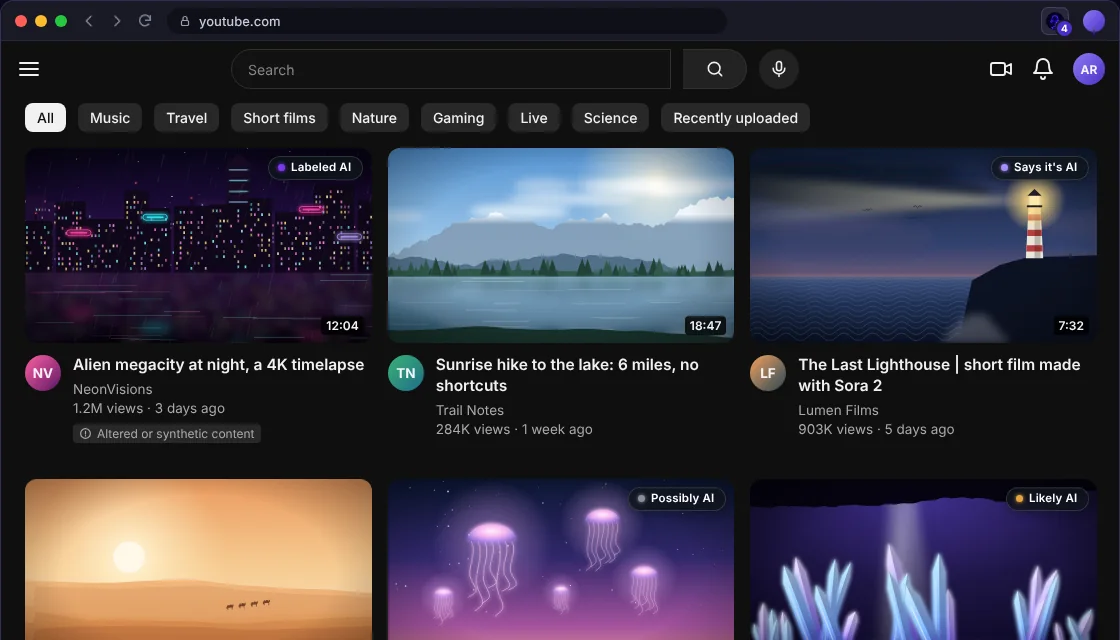
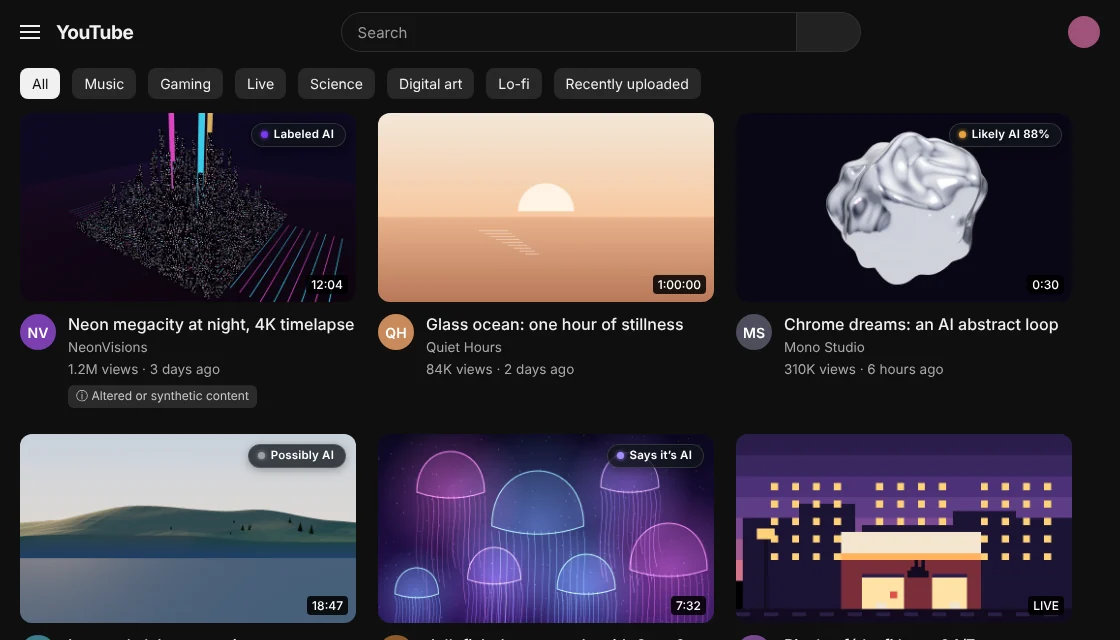
Site: example feed with varied, trend-style thumbnails
The YouTube example now uses six generated thumbnails in different
mediums and complexity: dense 3D city, a near-empty gradient, a shader
chrome form, low-poly terrain, generative jellyfish and pixel art. The
section lede now says the feeds are examples with made-up accounts.

Claude-Session: https://claude.ai/code/session_01LjgSyRA8fHcctpsDzVAq7S

diff --git a/site/index.html b/site/index.html
@@ -348,10 +348,10 @@ h2.section { font-size: clamp(32px, 4.4vw, 52px); line-height: 1.02; letter-spac
 
     <section class="block" aria-labelledby="proof-h">
       <h2 class="section" id="proof-h">It works where you already scroll.</h2>
-      <p class="section-lede">Real screenshots of ClariFi on YouTube, Instagram, X, TikTok and the settings page.</p>
+      <p class="section-lede">Screenshots of ClariFi running on example feeds with made-up accounts, plus its settings page.</p>
       <div class="shots">
         <figure class="shot">
-          <img src="img/feed-youtube.webp" width="1120" height="640" loading="lazy" alt="YouTube home feed with ClariFi badges: Labeled AI, Says it's AI, Possibly AI and Likely AI on different videos">
+          <img src="img/feed-youtube.webp" width="1120" height="640" loading="lazy" alt="Example YouTube-style feed with ClariFi badges: Labeled AI, Likely AI 88%, Possibly AI and Says it's AI on different videos">
           <figcaption><b>Know what's AI in your feed.</b> Every badge says how sure ClariFi is.</figcaption>
         </figure>
         <div class="shots shots-2">
